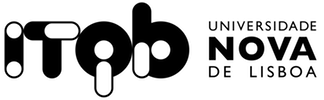
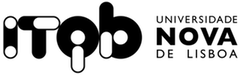
links and size

diff --git a/_layouts/default.html b/_layouts/default.html
@@ -24,8 +24,8 @@
 	<p style="text-align:center"><strong><a href="/">home</a></strong> — <strong><a href="/research">research</a></strong> — <strong><a href="/team">team</a></strong> — <strong><a href="/resources">resources</a></strong> — <strong><a href="/blog">blog</a></strong></p>
 
 	
-<p style="text-align:left;"><img src="/img/itqb.png">
-<span style="float:right;"><img src="/img/unl.png"></span>
+<p style="text-align:left;"><a href="http://www.itqb.unl.pt/"><img src="/img/itqb.png"></a>
+<span style="float:right;"><a href="http://www.unl.pt/"><img src="/img/unl.png"></a></span>
 
     </section>
 
